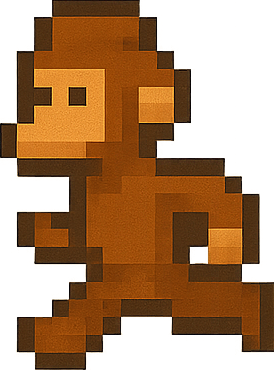
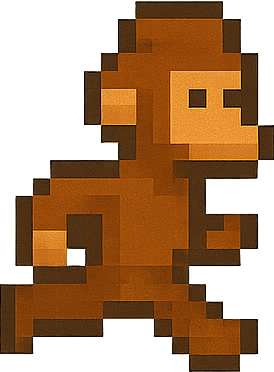
Implémentation des animations de marche, saut et escalade (à compléter avec + de frames) et implémentation de l'impossibilité que le personnage passe à travers la plateforme avec les échelles

diff --git a/JungleTrouble/ParametreWindow.xaml b/JungleTrouble/ParametreWindow.xaml
@@ -11,11 +11,10 @@
         <Label Content="Vitesse des tonneaux :&#xD;&#xA;" HorizontalAlignment="Left" Margin="25,160,0,0" VerticalAlignment="Top" Width="265" Height="25" FontSize="14"/>
         <Label Content="Nombre de tonneaux :" HorizontalAlignment="Left" Margin="25,250,0,0" VerticalAlignment="Top" Width="265" Height="25"/>
         <Slider x:Name="SlisSon" HorizontalAlignment="Center" Margin="0,66,0,0" VerticalAlignment="Top" Width="120"/>
-        <Slider x:Name="Slidvitesse" HorizontalAlignment="Center" Margin="0,200,0,0" VerticalAlignment="Top" Width="120" Minimum="1" Maximum="5" TickFrequency="1" Value="1"/>
-        <Slider x:Name="Slidnombre" HorizontalAlignment="Center" Margin="0,290,0,0" VerticalAlignment="Top" Width="120" RenderTransformOrigin="0.504,0.599" Minimum="1" Maximum="3" TickFrequency="1" Value="1"/>
+        <Slider x:Name="Slidvitesse" HorizontalAlignment="Center" Margin="0,200,0,0" VerticalAlignment="Top" Width="120" Minimum="1" Maximum="5" TickFrequency="1" Value="2"/>
+        <Slider x:Name="Slidnombre" HorizontalAlignment="Center" Margin="0,290,0,0" VerticalAlignment="Top" Width="120" Minimum="1" Maximum="3" TickFrequency="1" Value="1"/>
         <Label Content="Jeu :" HorizontalAlignment="Left" Margin="25,110,0,0" VerticalAlignment="Top" Height="50" Width="265" FontSize="20"/>
         <Button x:Name="butclause" Content="X  " HorizontalAlignment="Right" VerticalAlignment="Top" VerticalContentAlignment="Top" HorizontalContentAlignment="Right" Height="25" Width="25" Click="butclause_Click"/>
         <Button x:Name="butOk" Content="OK" HorizontalAlignment="Center" Margin="0,340,0,0" VerticalAlignment="Top" Height="34" Width="90" Click="butOk_Click"/>
-
     </Grid>
 </Window>

diff --git a/JungleTrouble/UCJeu.xaml.cs b/JungleTrouble/UCJeu.xaml.cs
@@ -44,7 +44,8 @@ namespace JungleTrouble
         private bool tonneauAuSol = false;
         private bool estSurEchelle = false;
         private double vitesseGrimpe = 200;
-        private BitmapImage[] perso = new BitmapImage[3];
+        private BitmapImage[] persoMarche = new BitmapImage[2];
+        private int pas = 0;
 
         public UCJeu()
         {
@@ -85,18 +86,13 @@ namespace JungleTrouble
             estSurEchelle = VerifierEchelle();
             if (!estSurEchelle)
             {
-                AppliquerPhysique(
-                    imgPerso,
-                    WIDTHPERSO,
-                    HEIGHTPERSO,
-                    ref vitesseVerticalePerso,
-                    ref persoAuSol,
-                    deltaTime);
+                AppliquerPhysique(imgPerso,WIDTHPERSO,HEIGHTPERSO,ref vitesseVerticalePerso,ref persoAuSol,deltaTime);
             }
             else
             {
                 vitesseVerticalePerso = 0;
-            }
+                imgPerso.Source = new BitmapImage(new Uri($"pack://application:,,,/Images/Perso{MainWindow.Perso}/perso{MainWindow.Perso}grimpe1.png"));
+            }   
         }
         private double HauteurPlateformeSousPerso(Image obj, double largeur, double hauteur, double yPrecedent)
         {
@@ -120,8 +116,7 @@ namespace JungleTrouble
             double x = Canvas.GetLeft(obj);
             double y = Canvas.GetBottom(obj);
             Rect hitbox = new Rect(x, y, width, height);
-
-            return hitbox.IntersectsWith(hitboxPlateforme0)|| hitbox.IntersectsWith(hitboxPlateforme1) || hitbox.IntersectsWith(hitboxPlateforme2) || hitbox.IntersectsWith(hitboxPlateforme3);
+            return hitbox.IntersectsWith(hitboxPlateforme0) || hitbox.IntersectsWith(hitboxPlateforme1) || hitbox.IntersectsWith(hitboxPlateforme2) || hitbox.IntersectsWith(hitboxPlateforme3);
         }
 
         private void AppliquerPhysique(Image obj,double largeur,double hauteur,ref double vitesseVerticale,ref bool estAuSol,double deltaTime)
@@ -154,27 +149,45 @@ namespace JungleTrouble
         private int countimage = 0;
         private void canvasJeu_KeyDown(object sender, KeyEventArgs e)
         {
-            int pas = 1;
             double objX = Canvas.GetLeft(imgPerso);
             double objY = Canvas.GetBottom(imgPerso);
             Rect hitboxPerso = new Rect(objX, objY, WIDTHPERSO, HEIGHTPERSO);
             if (e.Key == Key.Right && Canvas.GetLeft(imgPerso) < 764)
             {
                 pas++;
-                Console.WriteLine(pas);
                 Canvas.SetLeft(imgPerso, Canvas.GetLeft(imgPerso) + 5);
-                imgPerso.Source = perso[(pas%3) + 1];
+                imgPerso.RenderTransform = new ScaleTransform(1, 1, imgPerso.Width / 2, imgPerso.Height / 2);
+                if (pas % 4 <= 1 && pas % 4 >= 0)
+                {
+                    imgPerso.Source = persoMarche[0];
+                }
+                else
+                {
+                    imgPerso.Source = persoMarche[1];
+                }
             }
             if (e.Key == Key.Left && Canvas.GetLeft(imgPerso) > 0)
+            {
+                pas++;
                 Canvas.SetLeft(imgPerso, Canvas.GetLeft(imgPerso) - 5);
+                imgPerso.RenderTransform = new ScaleTransform(-1, 1, imgPerso.Width / 2, imgPerso.Height / 2);
+                if (pas % 4 <= 1 && pas % 4 >= 0)
+                {
+                    imgPerso.Source = persoMarche[0];
+                }
+                else
+                {
+                    imgPerso.Source = persoMarche[1];
+                }
+            }
             if (e.Key == Key.Up)
             {
-                    Saut();
+                Saut();
             }
             if (estSurEchelle)
             {
                 double y = Canvas.GetBottom(imgPerso);
-                if (e.Key == Key.Up)
+                if (e.Key == Key.Up && !hitboxPerso.IntersectsWith(hitboxPlateforme1) && !hitboxPerso.IntersectsWith(hitboxPlateforme2) && !hitboxPerso.IntersectsWith(hitboxPlateforme3))
                 {
                     y += vitesseGrimpe * 0.016;
                     Canvas.SetBottom(imgPerso, y);
@@ -187,10 +200,19 @@ namespace JungleTrouble
             }
         }
 
+        private void canvasJeu_KeyUp(object sender, KeyEventArgs e)
+        {
+            if (e.Key == Key.Right || e.Key == Key.Left)
+            {
+                imgPerso.Source = persoMarche[0];
+            }
+        }
+
         private void Saut()
         {
             if (persoAuSol)
             {
+                imgPerso.Source = new BitmapImage(new Uri($"pack://application:,,,/Images/Perso{MainWindow.Perso}/perso{MainWindow.Perso}saut.png"));
                 vitesseVerticalePerso = JUMPSTRENGTH;
                 persoAuSol = false;
             }
@@ -247,12 +269,12 @@ namespace JungleTrouble
         }
         private void InitializeImages()
         {
-            for (int i = 0; i < perso.Length; i++)
+            for (int i = 0; i < persoMarche.Length; i++)
             {
-                perso[i] = new BitmapImage(new Uri($"pack://application:,,,/Images/Perso{MainWindow.Perso}/perso{MainWindow.Perso + (i + 1)}.png"));
-                Console.WriteLine("Image " + i + " " + perso[i]);
+                persoMarche[i] = new BitmapImage(new Uri($"pack://application:,,,/Images/Perso{MainWindow.Perso}/perso{MainWindow.Perso + (i + 1)}.png"));
+                Console.WriteLine("Image " + i + " " + persoMarche[i]);
             }
-            Console.WriteLine(perso);
+            Console.WriteLine(persoMarche);
         }
 
         private bool VerifierEchelle()
@@ -260,10 +282,7 @@ namespace JungleTrouble
             double x = Canvas.GetLeft(imgPerso);
             double y = Canvas.GetBottom(imgPerso);
             Rect hitboxPerso = new Rect(x, y, WIDTHPERSO, HEIGHTPERSO);
-
-            return hitboxPerso.IntersectsWith(hitboxLadder1) ||
-                   hitboxPerso.IntersectsWith(hitboxLadder2) ||
-                   hitboxPerso.IntersectsWith(hitboxLadder3);
+            return hitboxPerso.IntersectsWith(hitboxLadder1) || hitboxPerso.IntersectsWith(hitboxLadder2) || hitboxPerso.IntersectsWith(hitboxLadder3);
         }
 
     }
